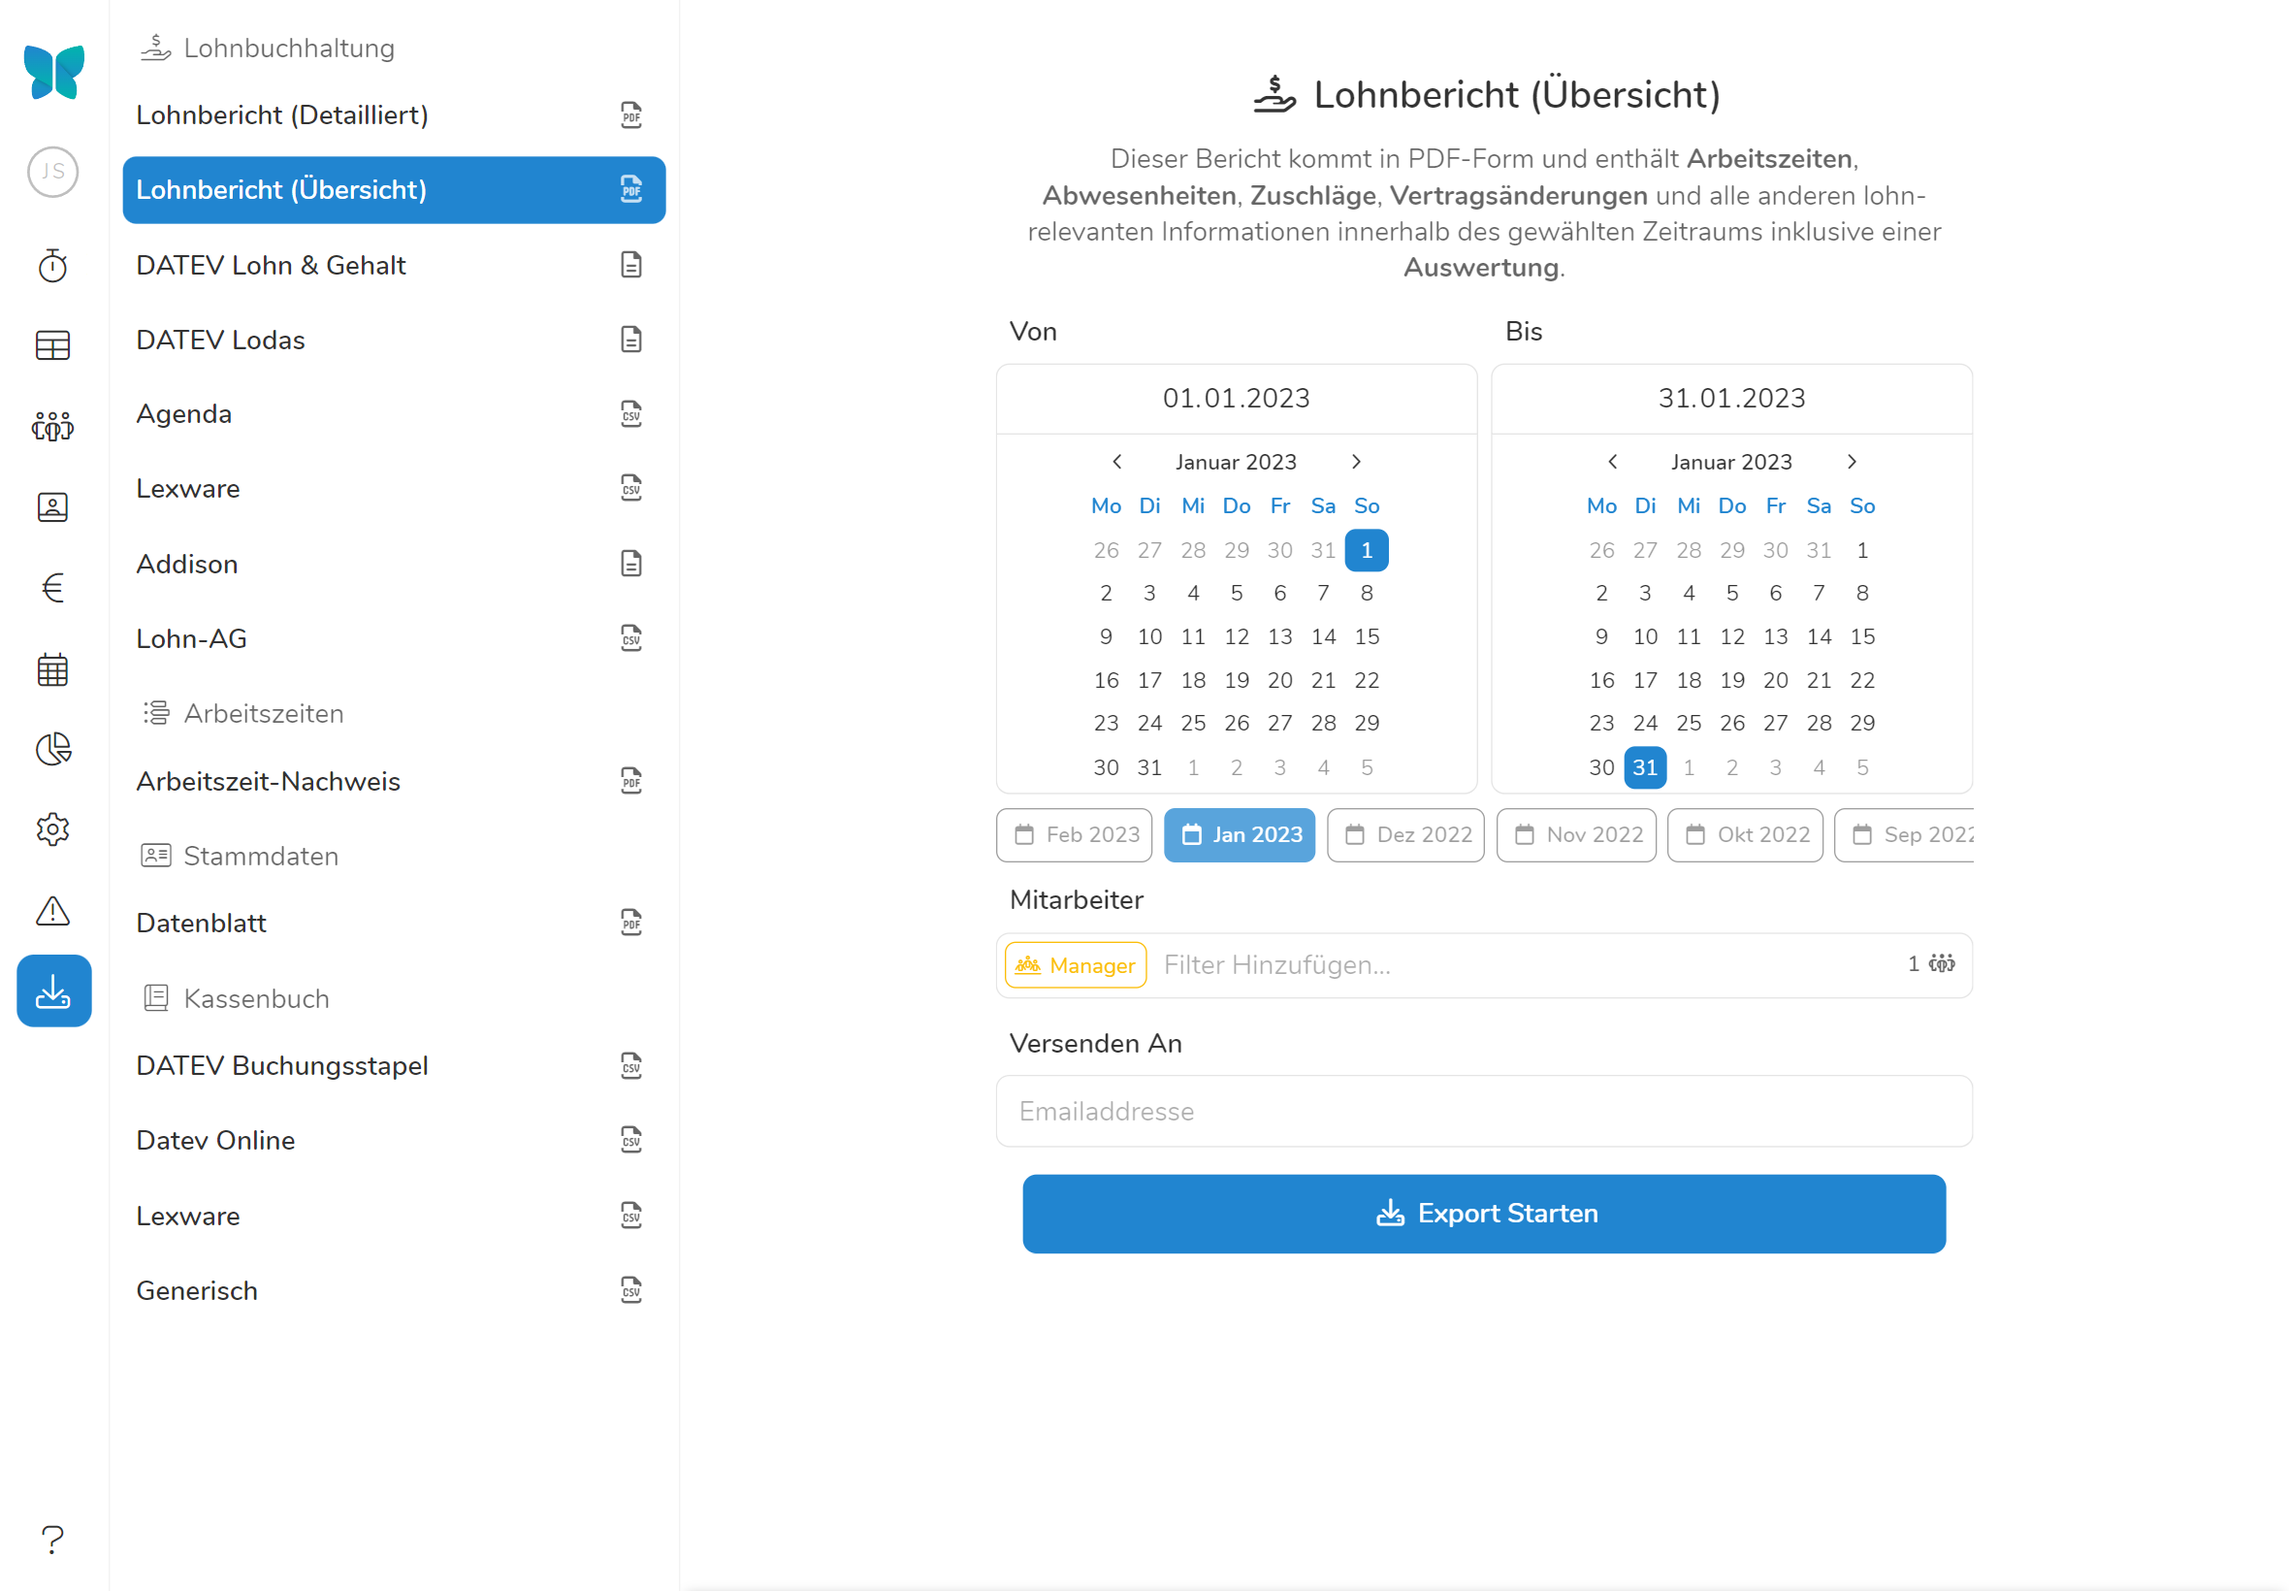
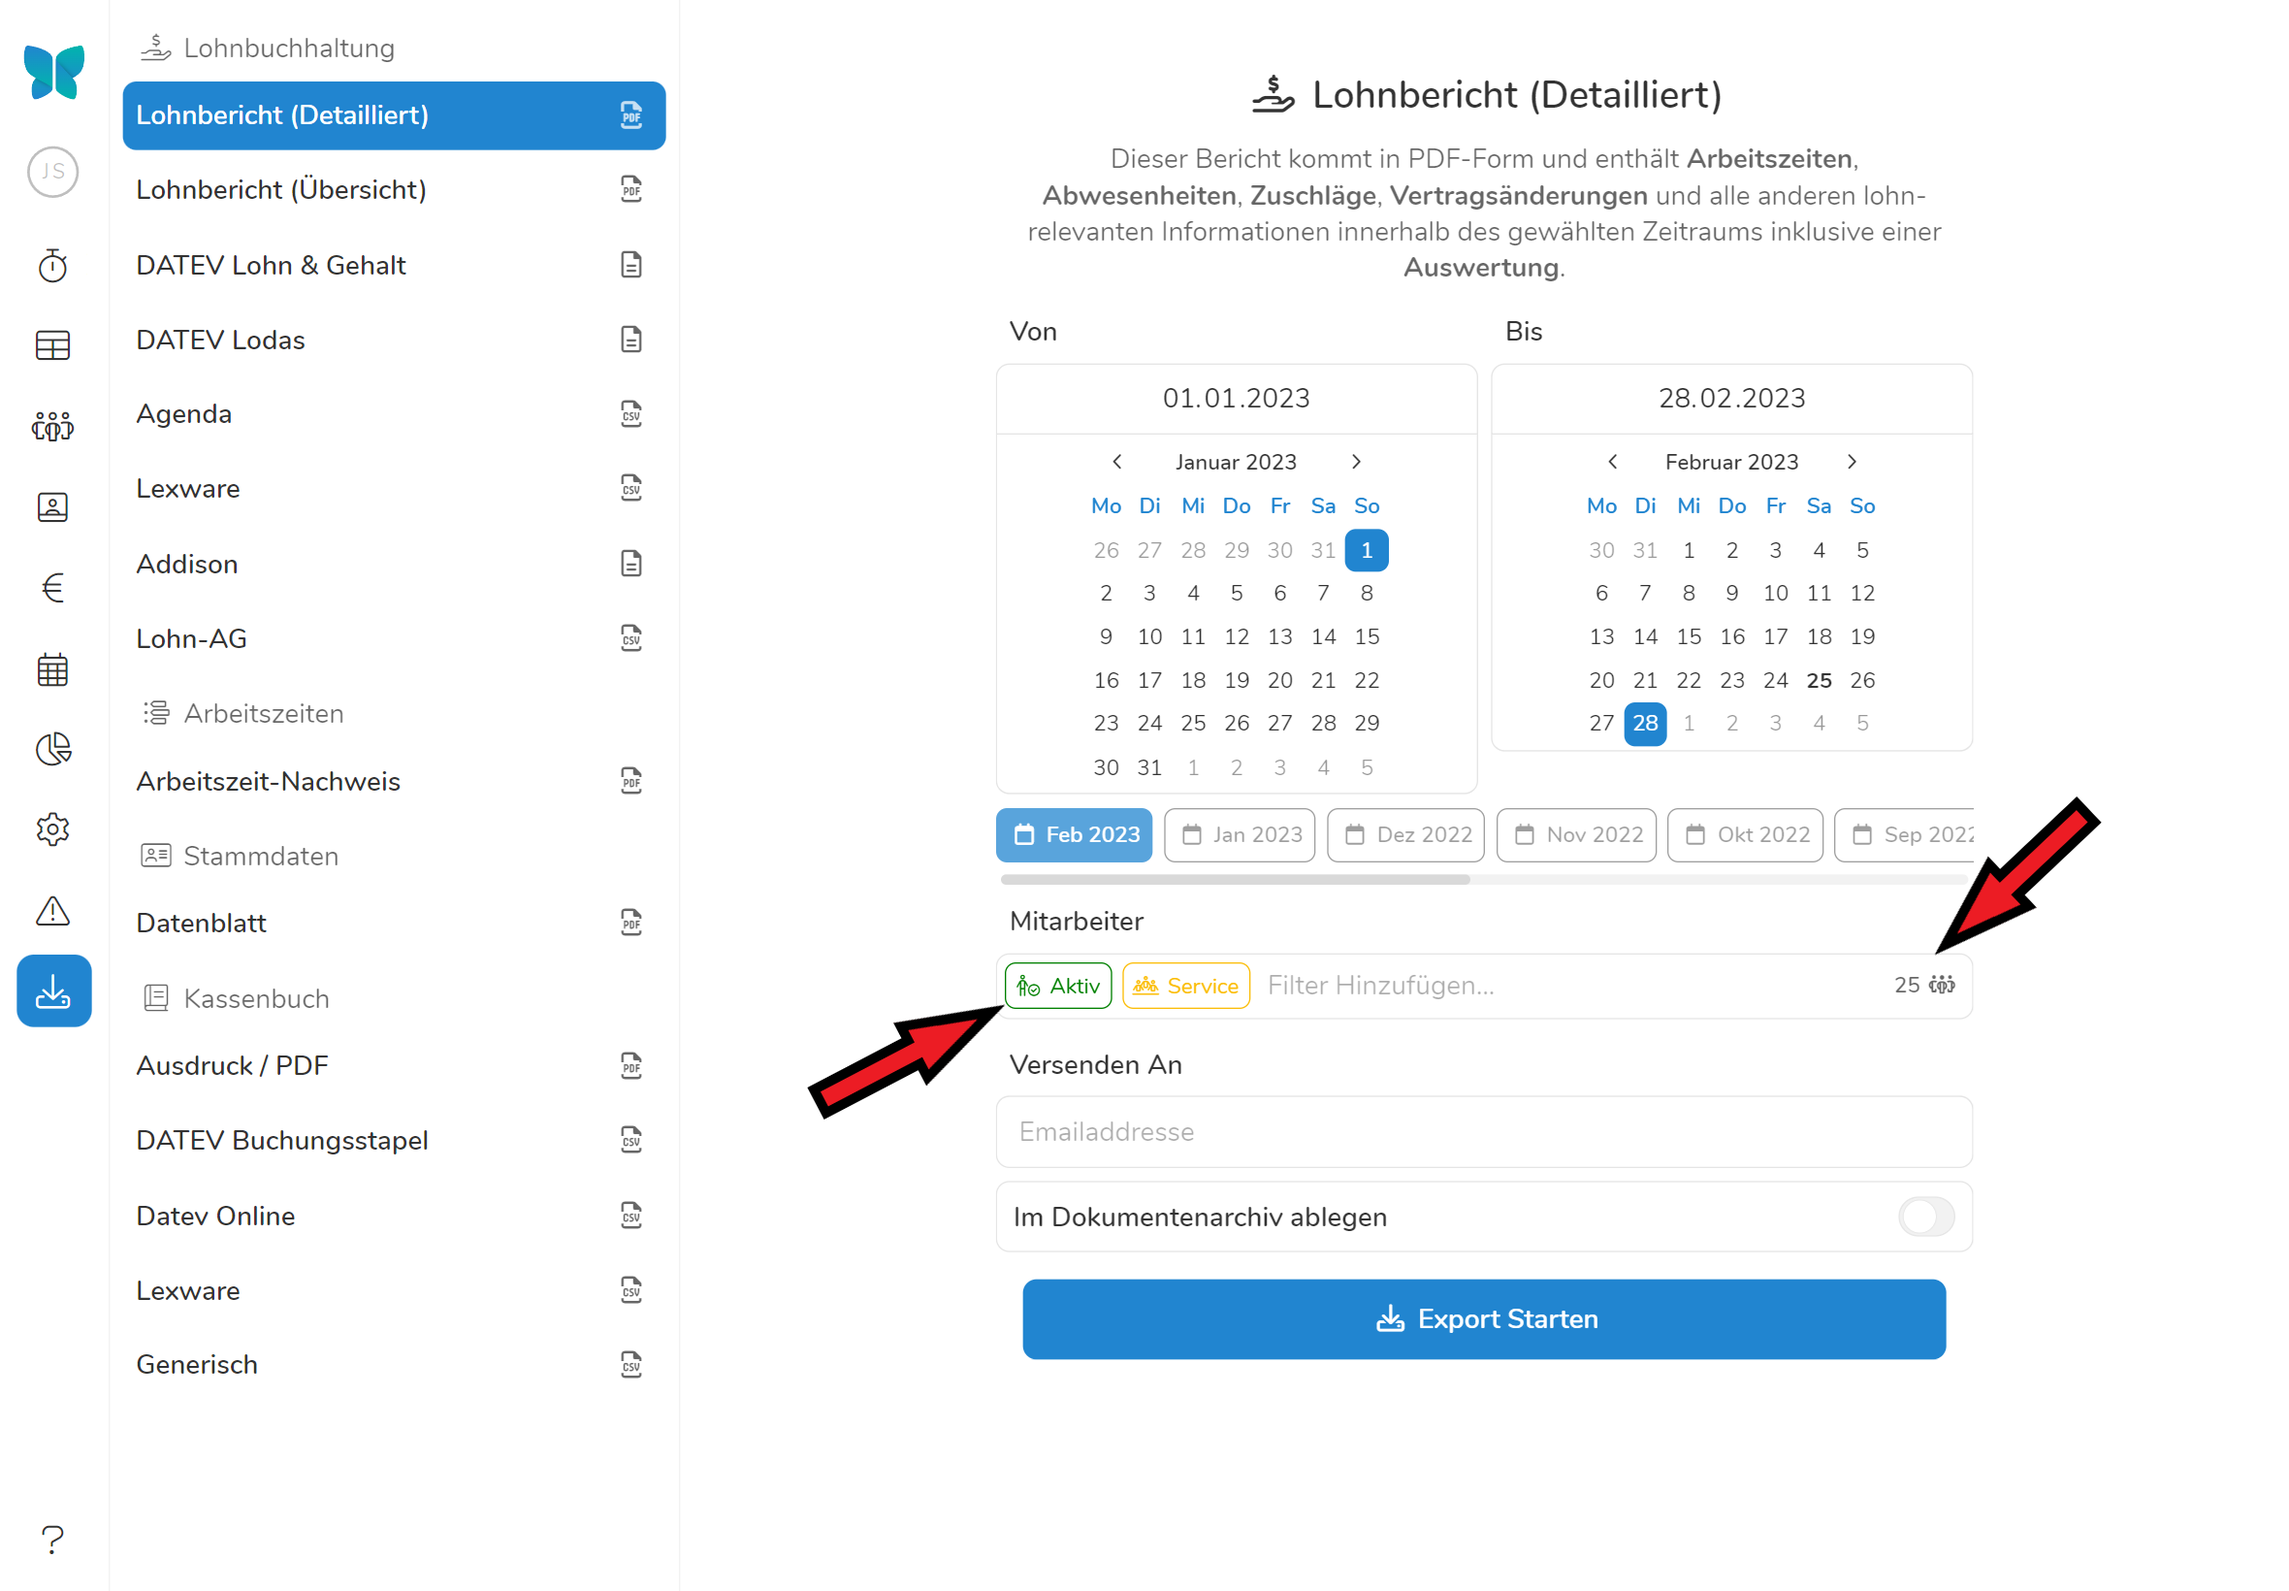
V2

diff --git a/hilfe/handbuch/datenexport/index.md b/hilfe/handbuch/datenexport/index.md
@@ -16,23 +16,17 @@ Hier finden Sie alle Exportoptionen, die der Lohnvorbereitung und -dokumentation
 
 In der Lohnbericht-Übersicht sind die Arbeitsstunden und -tage, sowie Zuschlagsstunden, Mitarbeiteressen und das aktuelle Gehalt in einer tabellarischen Ansicht zusammengefasst. Dieser Ausdruck ist vor allem für die Übermittlung an Ihr Lohnbüro gut geeignet und dient als Alternative zum direkten Export/Import in Ihr Lohnbuchhaltungs-Programm.
 Wählen Sie dazu unter **Lohnbericht (Übersicht)** den gewünschten Zeitraum aus. Unter **Mitarbeiter** können Sie nun auswählen für wen Sie die Lohnberichtübersicht erstellen wollen - dabei können Sie ganze Abteilungen oder einzelne Mitarbeiter auswählen. Wählen Sie eine **Abteilung und einen Mitarbeiter, werden Ihnen nur die Lohndaten der Schichten des Mitarbeiters in dieser Abteilung angezeigt**.
-Geben Sie eine Email Adresse in das Feld über {% button label="**Export Starten**" icon="download" %} ein, um die Lohnberichtsübersicht direkt zu verschicken. 
 
-{% figure caption="Hier Exportieren wir die Lohnberichte aller Manager - wie das **Symbol** zeigt ist davon nur ein Mitarbeiter betroffen" %}
+{% figure caption="Hier Exportieren wir die Lohnberichte aller aktiven Servicekräfte - die Nummer neben den Abteilung zeigt Ihnen die Anzahl der erfassten Mitarbeiter." %}
 <img src="lohnbericht_übersicht.webp" />
 {% endfigure %}
 
--- Wie Icons ins Captions einfügen?
-
-
 ### Lohnabrechnung Detailliert
 
-Die detaillierte Lohnübersicht fasst **die Inhalte des Lohnberichts mit allen Arbeitszeiten zusammen!** So haben Sie in einem Dokument alle relevanten Lohndaten und können gleichzeitig noch überprüfen, durch welche Arbeitseinsätze sich diese zusammensetzen. 
-Wählen Sie dazu **Lohnbericht (Detailliert)** aus und geben wieder den gewünschten Zeitraum sowie die Mitarbeiter / Abteilungen ein, für den Sie die detaillierte Lohnübersicht erstellen möchten. Auch hier haben Sie wieder die Möglichkeit die Daten **direkt per Email zu verschicken**. 
+Die detaillierte Lohnübersicht fasst **die Inhalte des Lohnberichts mit allen Arbeits- und Abwesenheitszeiten, sowie Änderungen am Vertrag sowie dem Arbeitszeitkonto zusammen!** So haben Sie in einem Dokument alle relevanten Lohn- und Bewegungsdaten zusammengefasst. 
+Wählen Sie dazu **Lohnbericht (Detailliert)** aus und geben wieder den gewünschten Zeitraum, sowie die Mitarbeiter / Abteilungen ein, für den Sie die detaillierte Lohnübersicht erstellen möchten.
 
-> Im Falle einer Prüfung ist es empfehlenswert, dem Prüfer für eine Stichprobenkontrolle einzelne Ausdrucke der "Lohnabrechnung" zu überlassen. Die offensichtliche Transparenz, Richtigkeit und Glaubwürdigkeit Ihrer Dokumentation durch Pentacode kann den Prüfungsvorgang u.U. erheblich beschleunigen.
-
--- Digitale Version ausreichend oder?
+> Wir empfehlen monatliche Lohnberichte stets durch Anwählen des Buttons [**Im Dokumentenarchiv ablegen**](#im-dokumentenarchiv-ablegen) in Pentacode zu hinterlegen. Zwar können Sie auch jederzeit Lohnberichte vergangener Monate erstellen - **im Falle einer Prüfungen haben Sie so jedoch die Lohnberichte ihrer Mitarbeiter stets geordnet und sofort zur Verfügung**. 
 
 ### Export in Buchhaltungsprogramme
 
@@ -46,18 +40,19 @@ Aktuell unterstützte Formate sind:
 - Lexware
 - LohnAG
 
-> Da der Export in das Buchhaltungsprogramm auf einige Daten wie Personalnummern und Lohnarten angewiesen ist, wird Ihnen eine Meldung angezeigt sollten diese fehlen. Sie können unter [Einstellungen/Buchhaltung](/hilfe/handbuch/einstellungen/buchhaltung#lohnarten) Lohnarten erstellen, um diese den Mitarbeitern zuzuweisen und im Export zu integrieren.
+#### Fehlermeldungen
 
-{% figure caption="Beim Export dieses Buchhaltungsformat werden wir darauf aufmerksam gemacht, dass für einige Mitarbeiter die Personalnummer fehlt." %}
-<img src=".webp" />
+Da der korrekte Export in ihr Buchhaltungsprogramm auf einige Daten wie **Personalnummern und Lohnarten** angewiesen ist, werden Sie darauf aufmerksam gemacht, sollten Daten unvollständig sein. Pentacode unterscheidet dabei drei verschiedene Meldungen:
+
+- {%icon "info-circle"%} Hier werden Ihnen Informationen bspw. zu fehlenden Lohnarten angegeben. Diese können in der Regel übersprungen werden, geben Ihnen aber Hinweise, für welche Mitarbeiter Personaldaten fehlen.
+- {%icon "exclamation-triangle"%} Sind **Warnungen**, die Sie darauf aufmerksam machen, dass der Lohnbericht so nicht von ihrer Lohnbuchhaltung zu verwenden ist. Diese Punkte sollten Sie möglichst beheben.
+- {%icon "hexagon-exclamation"%} Sind Fehlermeldungen, die den Export des Lohnberichts verhindern. Bis diese behoben sind, ist ein Export nicht möglich. 
+
+{% figure caption="Beim Export dieses Lohnberichts werden wir darauf aufmerksam gemacht, dass es Probleme geben kann, wenn für Mitarbeiter Personalnummern fehlen." %}
+<img src="fehlermeldung.webp" />
 {% endfigure %}
 
--- bedeutung der unterschiedlichen Zeichen?
--- {%icon "hexagon-exclamation"%} {%icon "exclamation-triangle"%} {%icon "info-circle"%}
-
-
 > {% icon "info-circle" %} **Hinweis:** Mit der Ausnahme von **LohnAG** erfordert der korrekte Export in Buchhaltungsprogramme immer die Erstellung von **Lohnartensätzen**. Mehr Informationen zur Konfiguration von Lohnarten finden Sie unter [Einstellungen/Buchhaltung](/hilfe/handbuch/einstellungen/buchhaltung#lohnarten).
-
 
 
 ## Arbeitszeiten Exportieren
@@ -73,8 +68,6 @@ Wählen Sie nun unter **Mitarbeiter** aus, für wen Sie den Nachweis erstellen w
 <img src="mitarbeiter_filter.webp" />
 {% endfigure %}
 
-Sollten Sie **den Nachweis direkt per Email verschicken** wollen - können Sie die Empfängeradresse direkt beim Exportieren mit angeben.
-
 **Im Dokumentenarchiv ablegen** sichert eine Kopie des Arbeitszeitennachweises im Dokumentenarchiv des Mitarbeiters und gewährt diesem auch Zugriff darauf. So, dass mit dem Anwählen von **Unterschrift anfordern** der Mitarbeiter den Nachweis auch direkt bestätigen kann, und Ihnen die Absicherung gibt - ganz ohne das Dokument jemals audrucken zu müssen. 
 
 > Wir empfehlen Ihnen ihre Mitarbeiter stets dazu aufzufordern den Arbeitszeitennachweis mit einer Unterschrift zu bestätigen - dies gibt Ihnen Sicherheit im Falle einer Prüfung und deckt Missverständnisse frühzeitig auf. Nutzen Sie dazu wie oben beschrieben die Funktion **Unterschrift anfordern**. Davor müssen Sie jedoch dem Mitarbeiter Zugriff auf sein Dokumentenarchiv gewähren - [hier](/hilfe/handbuch/mitarbeiter/zugaenge-rechte/#berechtigungen-übersicht) können Sie diese Einstellung treffen. 
@@ -83,11 +76,22 @@ Klicken Sie nun auf {% button icon="download", lable ="Export starten" %} werden
 
 ## Stammdaten exportieren
 
-Im Datenexportmenü können Sie auch eine übersichtliche Kopie der Stammdaten ihrer Mitarbeiter anfordern. Klicken Sie dazu auf {% button label="Datenblatt" %} und wählen wieder die Abteilungen oder einzelnen Mitarbeiter deren Daten Sie exportieren möchten. Auch hier haben Sie wieder die Möglichkeit das **Datenblatt direkt an eine Email Adresse zu verschicken**. Geben Sie dazu die Empfängeradresse in das Textfeld unter **Versenden an** ein. Mit einem Klick auf {% button label="**Export starten**" %} stehen Ihnen die Daten dann wieder zum Download bereit. 
+Im Datenexportmenü können Sie auch eine übersichtliche Kopie der Stammdaten ihrer Mitarbeiter anfordern. Klicken Sie dazu auf {% button label="Datenblatt" %} und wählen wieder die Abteilungen oder einzelnen Mitarbeiter deren Daten Sie exportieren möchten. Mit einem Klick auf {% button label="**Export starten**" %} stehen Ihnen die Daten dann wieder zum Download bereit. 
 
 ## Kassenbuch
 
-Auf die gleiche Art und Weise wie die Lohn- und Mitarbeiterdaten können Sie auch das Kassenbuch vorgefertigt in ihr Buchhaltungsprogramm exportieren. Wählen Sie dazu erst unter **Kassenbuch** das gewünschte DATEV-Format und anschließend den gewünschten Zeitraum und Standort aus. Auch hier haben Sie wieder die Option eine Kopie der Daten direkt per Email zu verschicken. Geben Sie dazu die gewünschte Empfängeradresse in das Textfeld "Versenden an" ein.      
+Auf die gleiche Art und Weise wie die Lohn- und Mitarbeiterdaten können Sie auch das Kassenbuch vorgefertigt in ihr Buchhaltungsprogramm exportieren. Wählen Sie dazu erst unter **Kassenbuch** das gewünschte Format und anschließend den **gewünschten Zeitraum und Standort aus**. Die verschiedenen Formate, die Ihnen zur Verfügung stehen umfassen neben einem einfachen Ausdruck als PDF:
+
+- DATEV Buchungsstapel
+- DATEV online
+- Lexware
+- Generisch (Alle Kasssenbucheinträge als standardmäßige CSV-Datei für den Import in verschiedene Programme)
+
+## Per Email versenden
+
+Bei sämtlichen Exporten steht Ihnen die Option zur Verfügung im Feld **Versenden an...** eine Email-Adresse einzutragen, an die Sie eine Kopie des Exports verschicken wollen. Dies kann bspw. nützlich sein, um ihrer Buchhaltung vereinfacht Lohndaten zukommen zu lassen. 
+**Einmal eingegeben wird die Email Adresse automatisch ausgefüllt und stets eine Kopie verschickt!**
+-- Option für mehrere Emails
 
 -- Gif Kassenbuch exportieren
 
